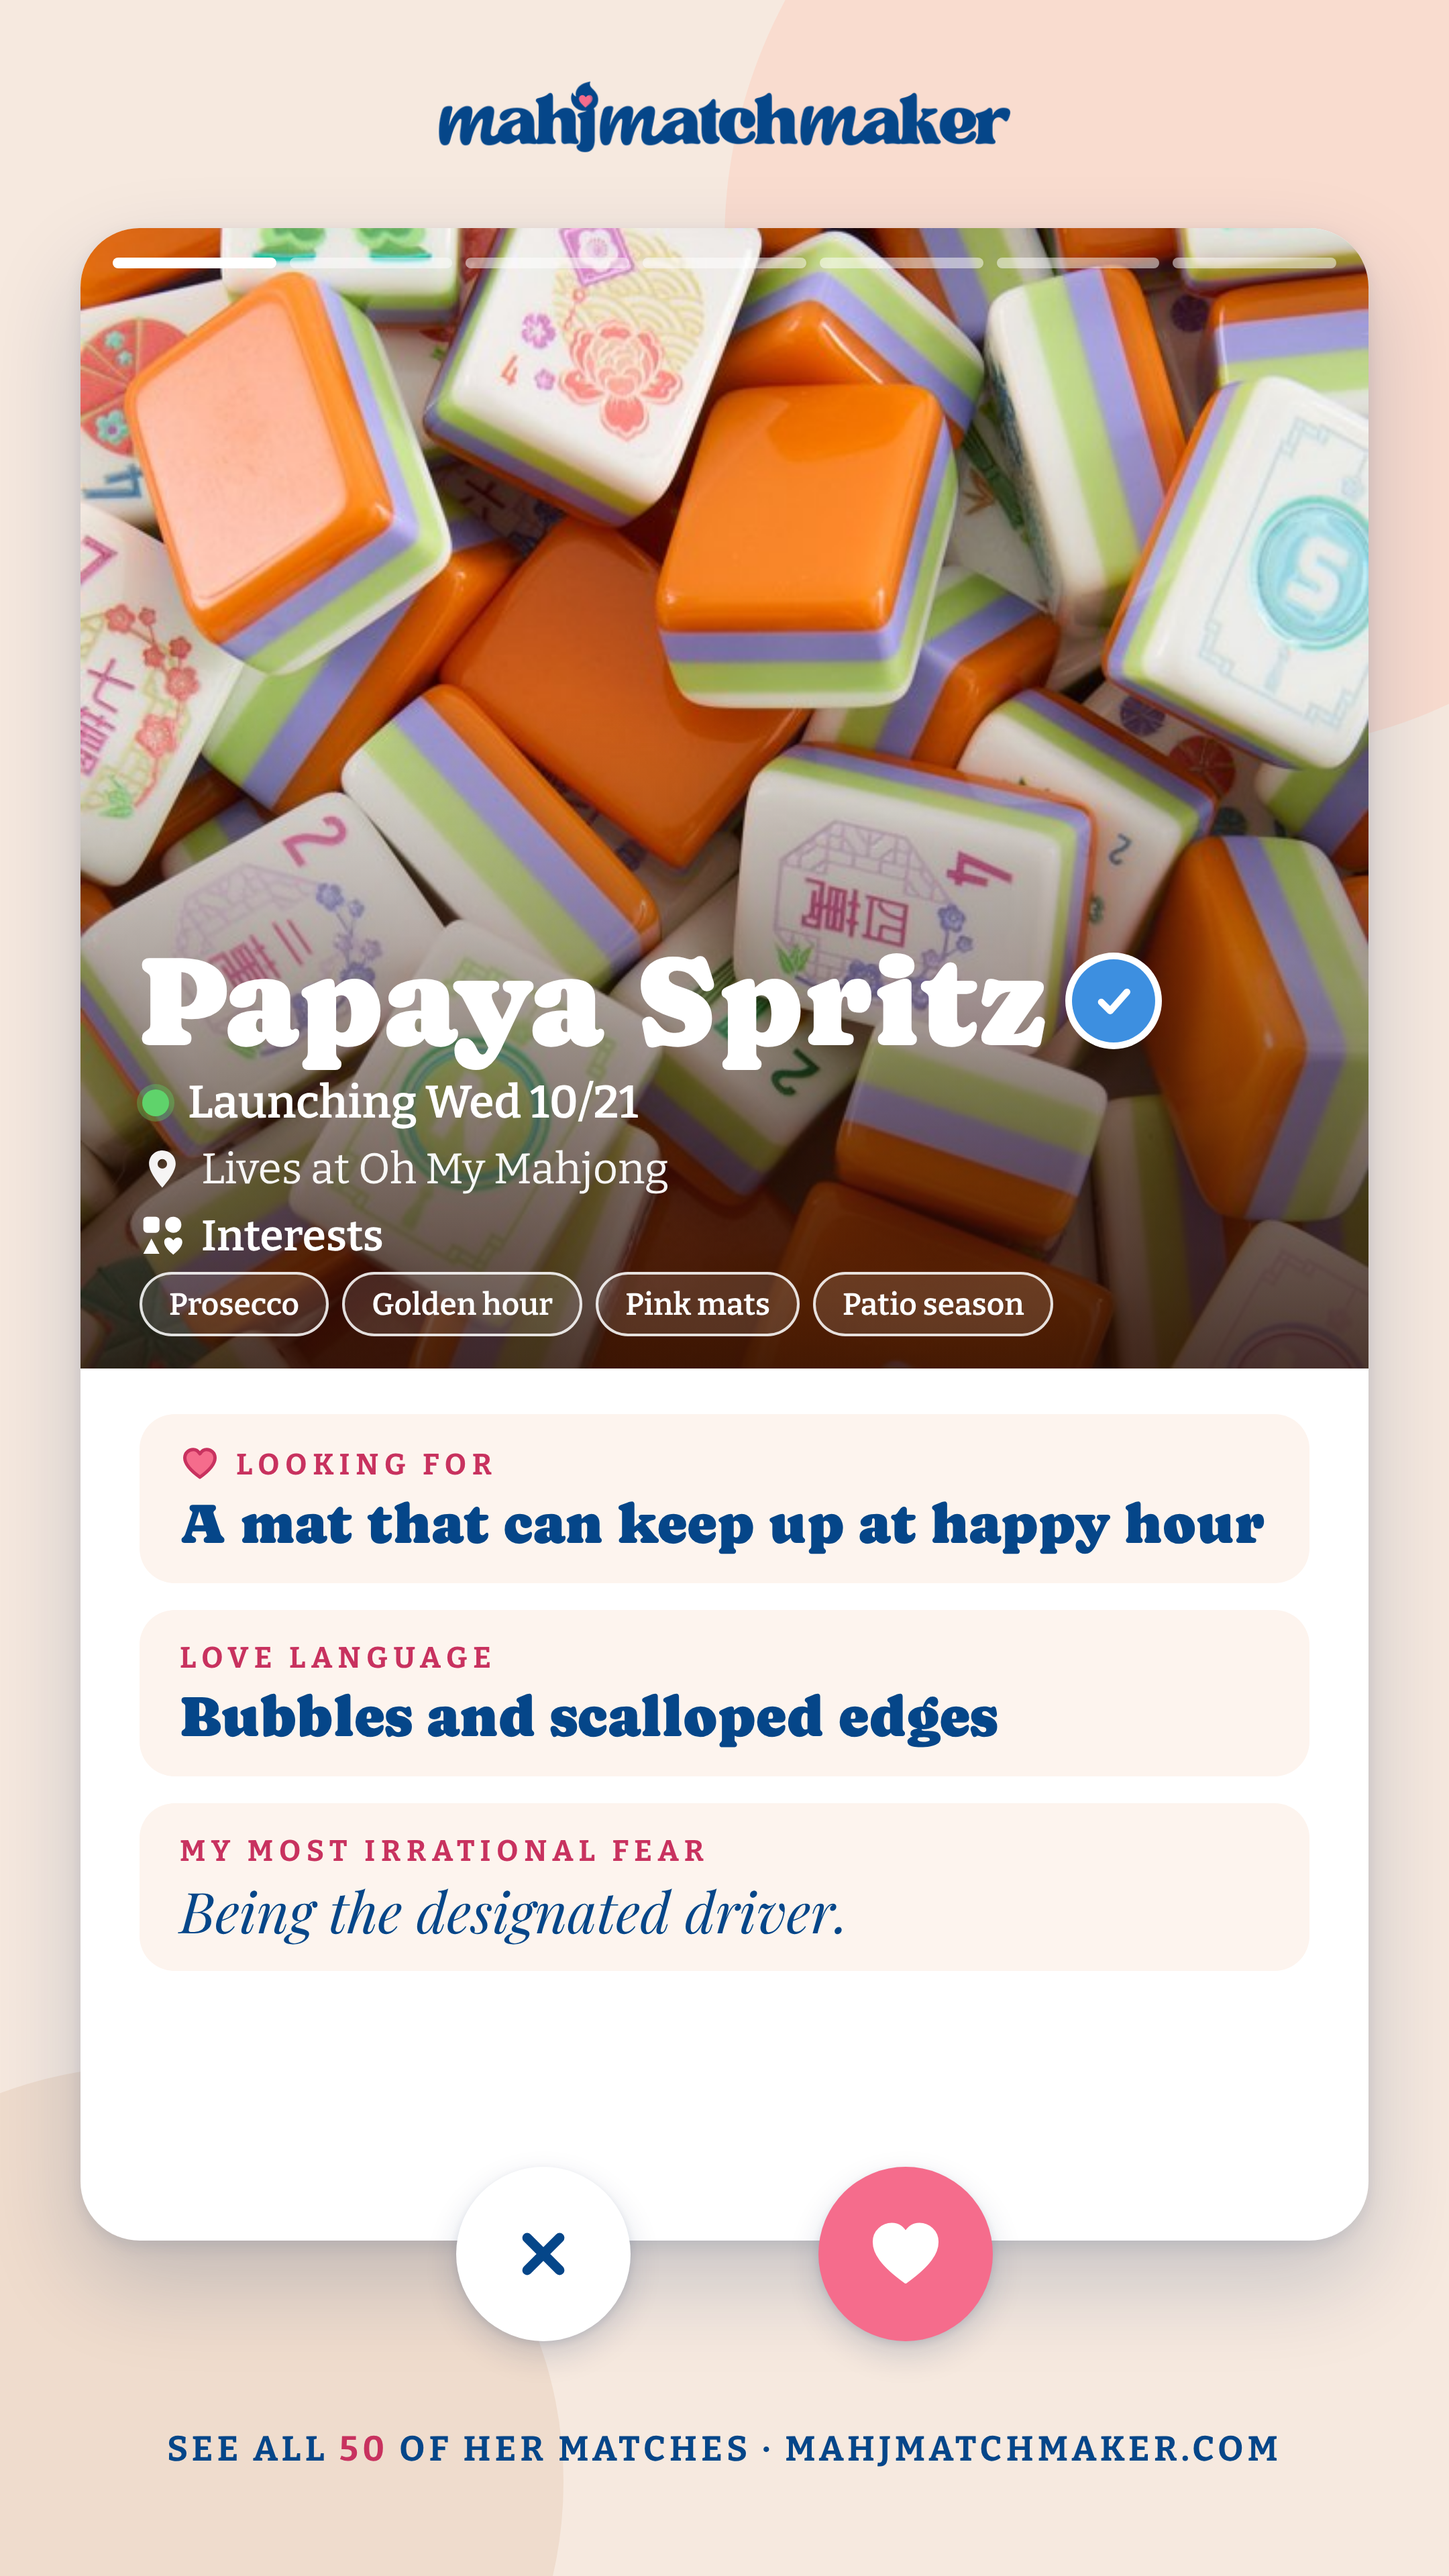
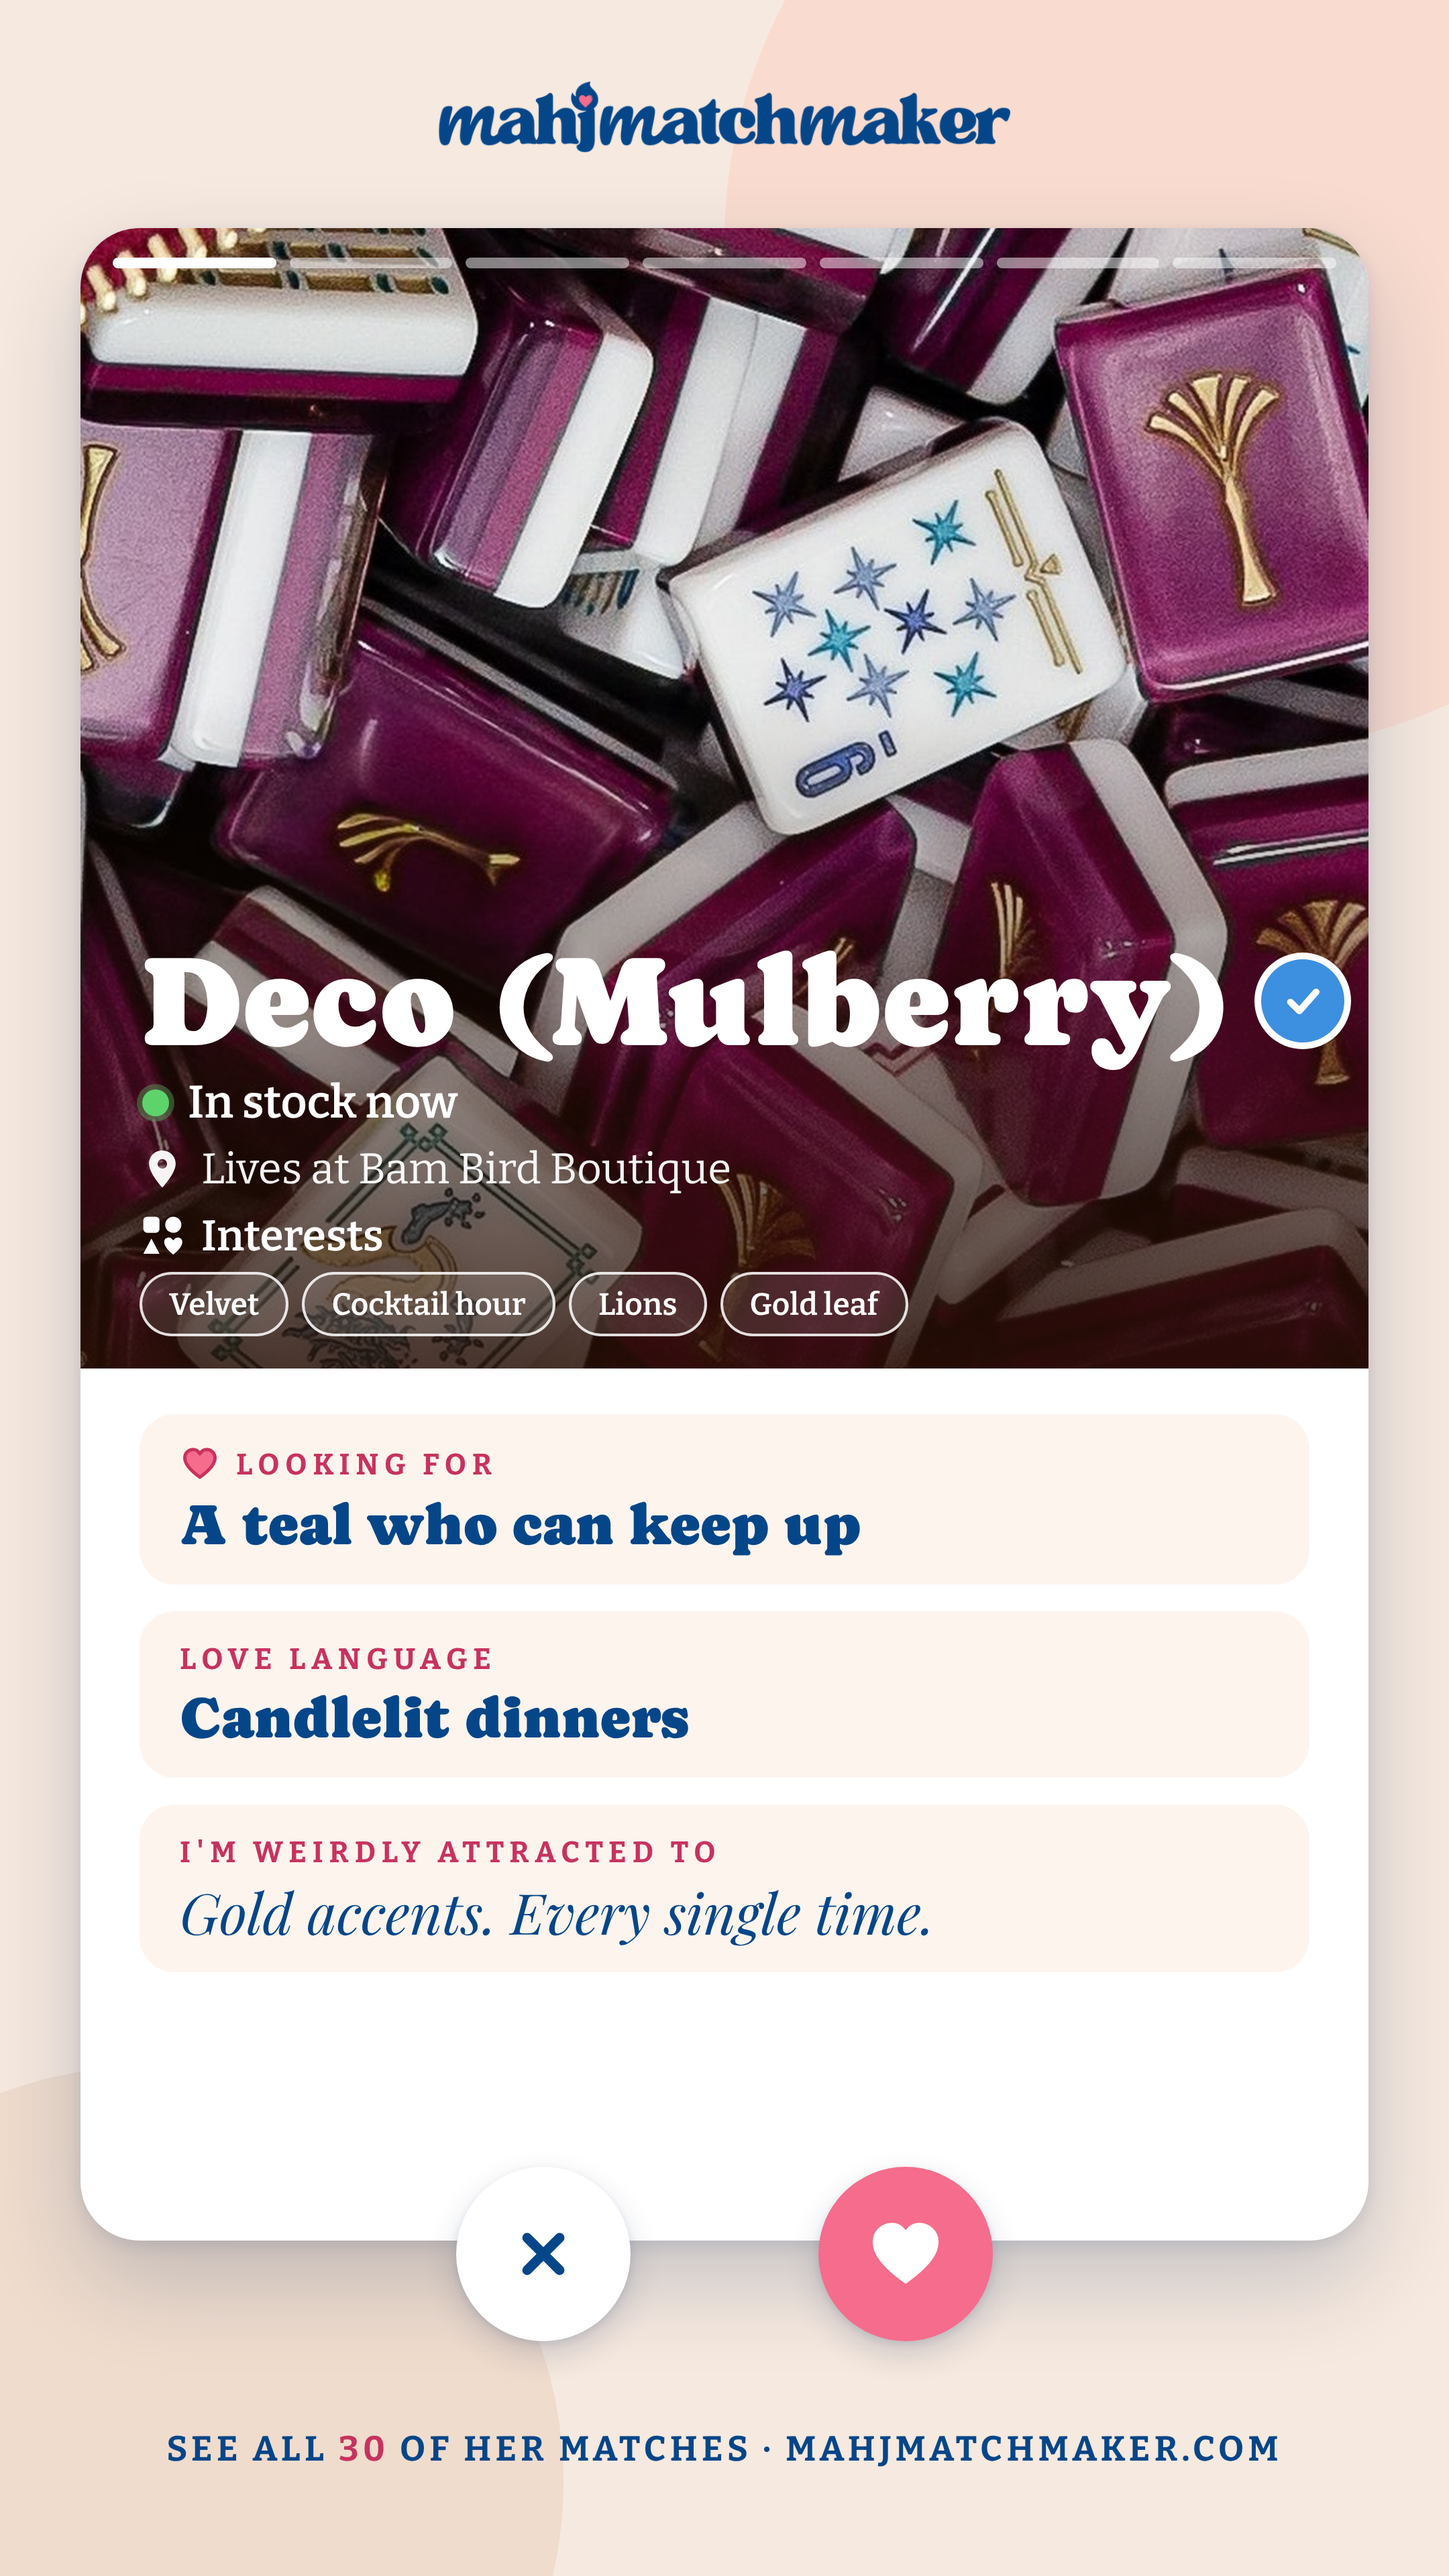
tileprofile: latest profile-d render (generated)
Claude-Session: https://claude.ai/code/session_01U7RfeJEDwDLRZnhiPmiFwy

diff --git a/scripts/social/tileprofile/html/profile-d.html b/scripts/social/tileprofile/html/profile-d.html
@@ -11,7 +11,7 @@ html,body{width:1080px;height:1920px;overflow:hidden;background:var(--cream);col
 .abs{position:absolute}
 .card{position:absolute;left:60px;top:170px;width:960px;height:1500px;background:#fff;border-radius:44px;overflow:hidden;
   box-shadow:0 30px 70px rgba(5,40,90,.20),0 4px 12px rgba(5,40,90,.10)}
-.photo{position:absolute;left:0;top:0;width:960px;height:850px;background:url('file:///home/claude/mahjmatchmaker-data/assets/tiles/album/papaya-spritz.jpg') center/cover}
+.photo{position:absolute;left:0;top:0;width:960px;height:850px;background:url('file:///home/claude/mahjmatchmaker-data/assets/tiles/album/deco-mulberry.jpg') center/cover}
 .bars{position:absolute;left:24px;right:24px;top:22px;display:flex;gap:10px}
 .bars i{flex:1;height:8px;border-radius:4px;background:rgba(255,255,255,.5)}
 .bars i:first-child{background:#fff}
@@ -47,19 +47,19 @@ html,body{width:1080px;height:1920px;overflow:hidden;background:var(--cream);col
  <div class="photo">
  <div class="bars"><i></i><i></i><i></i><i></i><i></i><i></i><i></i></div>
  <div class="shade"></div>
- <div class="name">Papaya Spritz<span class="check"><svg width="40" height="40" viewBox="0 0 48 48"><path d="M13 25 L21 33 L36 16" fill="none" stroke="#fff" stroke-width="6" stroke-linecap="round" stroke-linejoin="round"/></svg></span></div>
- <div class="meta"><span class="g"></span>Launching Wed 10/21</div>
- <div class="loc"><svg width="34" height="34" viewBox="0 0 48 48"><path d="M24 44 C24 44 10 29 10 19 C10 11 16 5 24 5 C32 5 38 11 38 19 C38 29 24 44 24 44 Z M24 24 A5 5 0 1 0 24 14 A5 5 0 1 0 24 24 Z" fill="#fff" stroke="#fff" stroke-width="0" stroke-linecap="round" stroke-linejoin="round"/></svg>Lives at Oh My Mahjong</div>
+ <div class="name">Deco (Mulberry)<span class="check"><svg width="40" height="40" viewBox="0 0 48 48"><path d="M13 25 L21 33 L36 16" fill="none" stroke="#fff" stroke-width="6" stroke-linecap="round" stroke-linejoin="round"/></svg></span></div>
+ <div class="meta"><span class="g"></span>In stock now</div>
+ <div class="loc"><svg width="34" height="34" viewBox="0 0 48 48"><path d="M24 44 C24 44 10 29 10 19 C10 11 16 5 24 5 C32 5 38 11 38 19 C38 29 24 44 24 44 Z M24 24 A5 5 0 1 0 24 14 A5 5 0 1 0 24 24 Z" fill="#fff" stroke="#fff" stroke-width="0" stroke-linecap="round" stroke-linejoin="round"/></svg>Lives at Bam Bird Boutique</div>
  <!-- Oct 21 1:47pm (Tiffany): no info/up-arrow circle on the photo; the only buttons are X + heart -->
  <div class="ilab"><svg width="34" height="34" viewBox="0 0 48 48"><rect x="4" y="4" width="17" height="17" rx="4" fill="#fff"/><circle cx="35.5" cy="12.5" r="8.5" fill="#fff"/><path d="M12.5 27 L21 43 H4 Z" fill="#fff"/><path d="M35.5 44 C27 37 26 33 26 30.5 C26 27.5 28.5 26 30.5 26 C32.5 26 34 27 35.5 29 C37 27 38.5 26 40.5 26 C42.5 26 45 27.5 45 30.5 C45 33 44 37 35.5 44 Z" fill="#fff"/></svg>Interests</div>
- <div class="pillrow"><span class="pill">Prosecco</span><span class="pill">Golden hour</span><span class="pill">Pink mats</span><span class="pill">Patio season</span></div>
+ <div class="pillrow"><span class="pill">Velvet</span><span class="pill">Cocktail hour</span><span class="pill">Lions</span><span class="pill">Gold leaf</span></div>
  </div>
  <div class="body">
-  <div class="box"><div class="q"><svg width="30" height="30" viewBox="0 0 48 48"><path d="M24 40 C10 30 6 23 6 17 C6 11 11 7 16 7 C20 7 22 9 24 12 C26 9 28 7 32 7 C37 7 42 11 42 17 C42 23 38 30 24 40 Z" fill="#f56c8c" stroke="#c8325f" stroke-width="4" stroke-linecap="round" stroke-linejoin="round"/></svg> Looking for</div><div class="a">A mat that can keep up at happy hour</div></div>
-  <div class="box"><div class="q">Love language</div><div class="a">Bubbles and scalloped edges</div></div>
-  <div class="box"><div class="q">My most irrational fear</div><div class="pa">Being the designated driver.</div></div>
+  <div class="box"><div class="q"><svg width="30" height="30" viewBox="0 0 48 48"><path d="M24 40 C10 30 6 23 6 17 C6 11 11 7 16 7 C20 7 22 9 24 12 C26 9 28 7 32 7 C37 7 42 11 42 17 C42 23 38 30 24 40 Z" fill="#f56c8c" stroke="#c8325f" stroke-width="4" stroke-linecap="round" stroke-linejoin="round"/></svg> Looking for</div><div class="a">A teal who can keep up</div></div>
+  <div class="box"><div class="q">Love language</div><div class="a">Candlelit dinners</div></div>
+  <div class="box"><div class="q">I'm weirdly attracted to</div><div class="pa">Gold accents. Every single time.</div></div>
  </div>
 </div>
 <div class="btns"><div style="width:130px;height:130px;border-radius:50%;background:#fff;display:flex;align-items:center;justify-content:center;box-shadow:0 10px 24px rgba(5,40,90,.16),0 2px 6px rgba(5,40,90,.10)"><svg width="58" height="58" viewBox="0 0 48 48"><path d="M14 14 L34 34 M34 14 L14 34" fill="none" stroke="#054689" stroke-width="6" stroke-linecap="round" stroke-linejoin="round"/></svg></div><div style="width:130px;height:130px;border-radius:50%;background:#f56c8c;display:flex;align-items:center;justify-content:center;box-shadow:0 10px 24px rgba(5,40,90,.16),0 2px 6px rgba(5,40,90,.10)"><svg width="62" height="62" viewBox="0 0 48 48"><path d="M24 40 C10 30 6 23 6 17 C6 11 11 7 16 7 C20 7 22 9 24 12 C26 9 28 7 32 7 C37 7 42 11 42 17 C42 23 38 30 24 40 Z" fill="#fff" stroke="#fff" stroke-width="2" stroke-linecap="round" stroke-linejoin="round"/></svg></div></div>
-<div class="foot">See all <b>50</b> of her matches · mahjmatchmaker.com</div>
+<div class="foot">See all <b>30</b> of her matches · mahjmatchmaker.com</div>
 </div></body></html>
